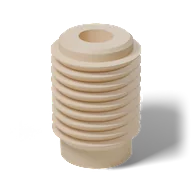
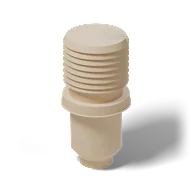
Linco Dübel gerçek modelle yeniden render; birim ağırlık admin paneli
- render_parcalar.py: Linco Dübel prosedürel modelden "mesan linco optimized.fbx"
  içindeki Dübelli_Pim.001'in ahşap gövdesine (slot_tut ile pim ayrıldı) geçti;
  boy 21 mm (modelden ölçüldü). Görseller ve manifest yeniden üretildi.
- panel: köşedeki silik düğmeden açılan ağırlık ayarı (GET/POST /api/agirliklar,
  data/agirliklar.json). Tartı hedefi adet × güncel ağırlıkla sunucuda hesaplanır;
  parca_sayim.py aynı dosyayı okur.

Claude-Session: https://claude.ai/code/session_01DtRJRspo2wVxy9ADhSDqMA

Changed region(s): [[0.25, 0.125, 0.9375, 0.9062], [0.625, 0.125, 0.6562, 0.1562]]

diff --git a/static/arayuz/panel.js b/static/arayuz/panel.js
@@ -1457,6 +1457,48 @@ function ucKapat() {
 }
 
 /* ====================================================================== 10. Olaylar */
+/* ====================================================================== Admin: birim ağırlıklar */
+/* Ağırlık tablosu sunucudadır (data/agirliklar.json). Açılışta okunur ve parcalar.js'deki
+   BIRIM_GRAM'in üstüne yazılır; "Birim X g" etiketi ve (sunucuda hesaplanan) tartı hedefi böylece tutarlı kalır. */
+const ADMIN_PARCALAR = ['Raf Pimi', 'Ağaç Vidası', 'Minifix', 'Linco Dübel', 'Linco Gövde', 'Linco Kapak', 'Arkalık Çivisi'];
+let adminVars = {};
+async function agirlikYukle() {
+  try {
+    const r = await veriCek('/api/agirliklar', { cache: 'no-store', zamanAsimi: POLL_ZAMAN_ASIMI });
+    adminVars = r.varsayilan || {};
+    Object.assign(BIRIM_GRAM, r.agirliklar || {});
+  } catch (e) { /* eski sunucu: panel parcalar.js'deki sabitlerle çalışır */ }
+}
+function adminDoldur(deg) {
+  $('#adminTablo').innerHTML = ADMIN_PARCALAR.map((ad, i) => `<label for="adm${i}">${esc(ad)}</label><span class="adm-gir"><input id="adm${i}" data-ad="${esc(ad)}" inputmode="decimal" value="${esc(String(deg[ad] ?? ''))}"><small>g</small></span>`).join('');
+}
+const adminSayi = (v) => Number(String(v).trim().replace(',', '.'));
+async function adminAc() {
+  const dlg = $('#adminDlg'); if (dlg.open) return;
+  $('#adminDurum').textContent = '';
+  adminDoldur(BIRIM_GRAM);
+  dlg.showModal();
+}
+function adminKapat() { const d = $('#adminDlg'); if (d.open) d.close(); }
+async function adminKaydet(e) {
+  e.preventDefault();
+  const yeni = {}; let hata = false;
+  $$('#adminTablo input').forEach((inp) => {
+    const g = adminSayi(inp.value), ok = Number.isFinite(g) && g > 0 && g < 1000;
+    inp.setAttribute('aria-invalid', String(!ok)); if (!ok) hata = true; else yeni[inp.dataset.ad] = g;
+  });
+  const du = $('#adminDurum');
+  if (hata) { du.textContent = 'Ağırlıklar 0 ile 1000 g arasında sayı olmalı.'; return; }
+  du.textContent = 'Kaydediliyor…';
+  try {
+    const r = await postJson('/api/agirliklar', { agirliklar: yeni });
+    Object.assign(BIRIM_GRAM, r.agirliklar);
+    du.textContent = 'Kaydedildi.';
+    toast('Ağırlıklar kaydedildi');
+    yenile();
+  } catch (err) { du.textContent = `Kaydedilemedi: ${err.message}`; }
+}
+
 function aksiyon(act, t) {
   switch (act) {
     case 'yenile': { const s = $('#yenileBtn svg'); if (s && !azHareket()) s.animate([{ transform: 'rotate(0)' }, { transform: 'rotate(360deg)' }], { duration: 600, easing: EASE }); yenile(); break; }
@@ -1496,6 +1538,9 @@ function aksiyon(act, t) {
     case 'video-kapat': videoKapat(); break;
     case 'buyut': buyukAc(); break;
     case 'buyuk-kapat': buyukKapat(); break;
+    case 'admin-ac': adminAc(); break;
+    case 'admin-kapat': adminKapat(); break;
+    case 'admin-varsayilan': adminDoldur(adminVars); break;
     case 'uc': ucAc(); break;
     case 'uc-kapat': ucKapat(); break;
     case 'uc-kenar': UC.kenar = !UC.kenar; if (UC.k) UC.k.kenar(UC.kenar); t.setAttribute('aria-pressed', String(UC.kenar)); break;
@@ -1591,6 +1636,8 @@ $('#videoDlg').addEventListener('click', (e) => { if (e.target === e.currentTarg
 $('#videoEl').addEventListener('error', () => { clearTimeout(videoZ); videoHata(); });
 $('#videoEl').addEventListener('loadedmetadata', () => { clearTimeout(videoZ); videoDurum(''); const du = $('#videoDuyuru'); if (du) du.textContent = ''; });
 $('#buyukDlg').addEventListener('close', buyukTemizle);
+$('#adminDlg').addEventListener('click', (e) => { if (e.target === e.currentTarget) adminKapat(); });
+$('#adminForm').addEventListener('submit', adminKaydet);
 $('#buyukDlg').addEventListener('click', (e) => { if (e.target === e.currentTarget) buyukKapat(); });
 new ResizeObserver(() => belgelerSigdir()).observe($('.sb-alt'));
 if (document.fonts && document.fonts.ready) document.fonts.ready.then(belgelerSigdir); // yazı tipi gelince genişlikler değişir
@@ -1604,7 +1651,7 @@ window.addEventListener('beforeunload', (e) => {
 document.addEventListener('keydown', (e) => {
   const t = e.target;
   const yaziyor = t && (t.tagName === 'INPUT' || t.tagName === 'TEXTAREA' || t.tagName === 'SELECT' || t.isContentEditable);
-  if ($('#videoDlg').open || $('#buyukDlg').open) return; // modal kendi Esc/odak yönetimini yapar
+  if ($('#videoDlg').open || $('#buyukDlg').open || $('#adminDlg').open) return; // modal kendi Esc/odak yönetimini yapar
   if (e.key === 'Escape') {
     if (S.pop) { popKapat(); return; }
     if (S.ucAcik) { if (!document.fullscreenElement) ucKapat(); return; }
@@ -1679,6 +1726,7 @@ function baslat() {
   const q = P.get('ara'); if (q) { arama.value = q; S.q = q; }
   // manifest ve /api/durum paralel (zincir kısalır); ilk çizim manifest gelince yapılır
   S.manifestSoz = fetch('/static/parcalar/manifest.json').then((r) => (r.ok ? r.json() : {})).catch(() => ({})).then((m) => { S.manifest = m || {}; });
+  agirlikYukle();
   yenile();
   { const sr = $('#gozSirasi'); sr.addEventListener('scroll', seritMaske, { passive: true }); new ResizeObserver(seritMaske).observe(sr); }
   new ResizeObserver(bantOlc).observe($('#uyariKutu')); // bant açılıp kapanınca / satır sayısı değişince

diff --git a/static/arayuz/panel.css b/static/arayuz/panel.css
@@ -1145,3 +1145,22 @@ svg.tamam-ikon { width: 16px; height: 16px; color: var(--tamam); }
   .n-nabiz::after { display: none; }
 }
 @media print { .ust, .ray, .goz-sirasi { display: none; } }
+
+/* ---------- Admin: birim ağırlıklar (köşede silik düğme + modal) ---------- */
+.admin-kose { position: fixed; right: 6px; bottom: 6px; z-index: 5; width: 26px; height: 26px; display: grid; place-items: center; border: 0; border-radius: 50%; background: transparent; color: var(--kalem-3); opacity: .28; cursor: pointer; transition: opacity var(--t-giris) var(--ease); }
+.admin-kose:hover, .admin-kose:focus-visible { opacity: .9; }
+.admin-kose .i { width: 15px; height: 15px; }
+.admin-dlg { border: 0; padding: 0; border-radius: var(--r4); background: var(--kagit); color: var(--kalem); width: min(440px, 94vw); box-shadow: var(--golge); overflow: hidden; }
+.admin-dlg::backdrop { background: var(--perde); }
+.admin-dlg[open] { animation: dlg-gir var(--t-giris) var(--ease); }
+.admin-govde { padding: 0 var(--s5) var(--s5); display: grid; gap: var(--s3); }
+.admin-not { font-size: var(--f-s); color: var(--kalem-3); line-height: 1.45; }
+.admin-tablo { display: grid; grid-template-columns: 1fr auto; gap: var(--s2) var(--s3); align-items: center; }
+.admin-tablo label { font-size: var(--f-m, 1rem); }
+.admin-tablo .adm-gir { display: flex; align-items: center; gap: 6px; }
+.admin-tablo input { width: 96px; padding: 7px 9px; border: 1px solid var(--kalem-3); border-radius: 8px; background: transparent; color: inherit; font: inherit; text-align: right; font-variant-numeric: tabular-nums; }
+.admin-tablo input:focus-visible { outline: 2px solid var(--kalem); outline-offset: 1px; }
+.admin-tablo input[aria-invalid="true"] { border-color: #c0392b; }
+.admin-tablo small { color: var(--kalem-3); }
+.admin-alt { display: flex; align-items: center; gap: var(--s3); justify-content: flex-end; margin-top: var(--s2); }
+.admin-durum { margin-right: auto; font-size: var(--f-s); color: var(--kalem-3); }

diff --git a/panel.html b/panel.html
@@ -237,6 +237,20 @@
   <p class="buyuk-alt" id="buyukAlt"></p>
 </dialog>
 
+<button class="admin-kose" id="adminBtn" data-act="admin-ac" aria-haspopup="dialog" aria-label="Ağırlık ayarları (yönetici)" title="Ağırlık ayarları"><svg class="i" aria-hidden="true"><use href="#i-tarti"/></svg></button>
+<dialog class="admin-dlg" id="adminDlg" aria-labelledby="adminBaslik">
+  <div class="video-ust"><h2 id="adminBaslik">Birim ağırlıklar</h2><button class="ikon-btn" data-act="admin-kapat" aria-label="Kapat"><svg class="i"><use href="#i-kapat"/></svg></button></div>
+  <form class="admin-govde" id="adminForm" autocomplete="off">
+    <p class="admin-not">Tartı hedefleri adet × buradaki birim ağırlıkla hesaplanır (gram). Kayıttan sonra panelde hemen güncellenir; PDF'ler siparişler yeniden işlenince değişir.</p>
+    <div class="admin-tablo" id="adminTablo"></div>
+    <div class="admin-alt">
+      <span class="admin-durum" id="adminDurum" role="status" aria-live="polite"></span>
+      <button type="button" class="btn-ikinci-kucuk" data-act="admin-varsayilan"><svg class="i" aria-hidden="true"><use href="#i-sifirla"/></svg><span>Varsayılanlar</span></button>
+      <button type="submit" class="btn-ana btn-orta"><span class="btn-dolgu"></span>Kaydet</button>
+    </div>
+  </form>
+</dialog>
+
 <div class="toast" id="toast" role="status" aria-live="polite"></div>
 <script type="module" src="/static/arayuz/panel.js"></script>
 </body>

diff --git a/panel.py b/panel.py
@@ -59,6 +59,7 @@ MANIFEST = os.path.join(BASE, "islem_gecmisi.json")
 DATA_DIR = os.path.join(BASE, "data")
 CHECKLIST_DOSYA = os.path.join(DATA_DIR, "panel_checklist.json")
 NOTLAR_DOSYA = os.path.join(DATA_DIR, "panel_notlar.json")
+AGIRLIK_DOSYA = os.path.join(DATA_DIR, "agirliklar.json")
 SAYFA_DOSYA = os.path.join(BASE, "panel.html")
 STATIC_DIR = os.path.join(BASE, "static")  # arayüz varlıkları: parça renderları, logo, fontlar, three.js
 # Beyaz liste: bilinmeyen uzantı 404. mimetypes'a güvenilmez (.js bazı sistemlerde
@@ -546,6 +547,79 @@ def sistem_durumu():
         return veri
 
 
+# ------------------------------------------------------- BİRİM AĞIRLIKLAR ---
+# Tartılarak sayılan parçaların birim ağırlıkları (g). Varsayılanlar Ağırlıklar.md ile aynı;
+# admin ekranında değiştirilenler data/agirliklar.json'a yazılır (yalnız varsayılandan
+# ayrılanlar değil, tüm tablo). parca_sayim.py aynı dosyayı okur (yeni işlenen siparişler);
+# mevcut JSON'lardaki "gram" ise burada adet × birim ağırlıkla yeniden hesaplanır, böylece
+# değişiklik sipariş yeniden işlenmeden panelde görünür.
+AGIRLIK_VARSAYILAN = {
+    "Raf Pimi": 2.7, "Ağaç Vidası": 1.108, "Minifix": 3.401, "Linco Dübel": 4.4,
+    "Linco Gövde": 4.631, "Linco Kapak": 0.216, "Arkalık Çivisi": 0.335,
+}
+# adet anahtarı -> JSON "gram" anahtarı (pdf_uret.GRAM_KEY ile aynı)
+AGIRLIK_GRAM_ANAHTARI = {
+    "Raf Pimi": "Raf Pimi", "Ağaç Vidası": "Ağaç Vidası", "Minifix": "Minifix",
+    "Linco Dübel": "Linco Dübel", "Linco Gövde": "Linco", "Linco Kapak": "Linco Kapak",
+    "Arkalık Çivisi": "Çivi",
+}
+_agirlik_kilit = threading.Lock()
+
+
+def agirliklar_oku():
+    """Geçerli ağırlıklar: varsayılan + dosyadaki geçerli değerler."""
+    sonuc = dict(AGIRLIK_VARSAYILAN)
+    try:
+        with open(AGIRLIK_DOSYA, encoding="utf-8") as f:
+            ham = json.load(f)
+        for ad, g in (ham.items() if isinstance(ham, dict) else ()):
+            if ad in sonuc and isinstance(g, (int, float)) and not isinstance(g, bool) and 0 < g < 1000:
+                sonuc[ad] = float(g)
+    except (OSError, ValueError):
+        pass
+    return sonuc
+
+
+def agirliklar_yaz(yeni):
+    """yeni: {ad: gram}. Doğrulanmış tüm tabloyu atomik yazar; geçerli tabloyu döndürür."""
+    with _agirlik_kilit:
+        mevcut = agirliklar_oku()
+        for ad, g in yeni.items():
+            if ad not in AGIRLIK_VARSAYILAN:
+                raise ValueError(f"bilinmeyen parça: {ad}")
+            if isinstance(g, bool) or not isinstance(g, (int, float)) or not 0 < g < 1000:
+                raise ValueError(f"{ad}: ağırlık 0 ile 1000 g arasında bir sayı olmalı")
+            mevcut[ad] = round(float(g), 3)
+        f = tempfile.NamedTemporaryFile("w", dir=DATA_DIR, delete=False,
+                                        prefix=".agirliklar.tmp", encoding="utf-8")
+        try:
+            json.dump(mevcut, f, ensure_ascii=False, indent=1)
+            f.flush()
+            os.fsync(f.fileno())
+            f.close()
+            os.replace(f.name, AGIRLIK_DOSYA)
+        except BaseException:
+            f.close()
+            try:
+                os.unlink(f.name)
+            except OSError:
+                pass
+            raise
+        return mevcut
+
+
+def gram_hesapla(veri):
+    """Siparişin gram sözlüğü: dosyadaki gram anahtarları korunur, değerler adet × güncel ağırlık."""
+    gram = dict(veri.get("gram") or {})
+    adet = veri.get("adet") or {}
+    w = agirliklar_oku()
+    for ad, gk in AGIRLIK_GRAM_ANAHTARI.items():
+        n = adet.get(ad)
+        if gk in gram and isinstance(n, (int, float)):
+            gram[gk] = round(n * w[ad], 1)
+    return gram
+
+
 # ------------------------------------------------------------ API GÖVDESİ ---
 def durum_yaniti():
     """GET /api/durum gövdesi: sistem + sayaçlar + tüm siparişlerin TAM detayı (kart
@@ -568,7 +642,7 @@ def durum_yaniti():
             satirlar.append({
                 "no": no, "durum": k["durum"], "parca": k["parca"],
                 "pdf": k["pdf"], "ozet_no": k["ozet_no"], "zaman": k["zaman"],
-                "adet": veri.get("adet") or {}, "gram": veri.get("gram") or {},
+                "adet": veri.get("adet") or {}, "gram": gram_hesapla(veri),
                 "ray_setleri": veri.get("ray_setleri") or {},
                 "askilik_boylari": askilik_boylari(veri),
                 "checklist": checklist, "tamam": tamam, "toplam": toplam,
@@ -600,7 +674,7 @@ def siparis_yaniti(no, ham_goster=False):
         checklist, tamam, toplam = checklist_ozeti(no, veri)
     yanit = {
         "no": no, "durum": k["durum"], "parca_sayisi": veri.get("parca_sayisi"),
-        "adet": veri.get("adet") or {}, "gram": veri.get("gram") or {},
+        "adet": veri.get("adet") or {}, "gram": gram_hesapla(veri),
         "ray_setleri": veri.get("ray_setleri") or {},
         "askilik_boylari": askilik_boylari(veri),
         "fbx": k["fbx"], "video": k["video"], "pdf": k["pdf"], "ozet_no": k["ozet_no"],
@@ -928,6 +1002,9 @@ class PanelIstek(BaseHTTPRequestHandler):
                     return self._gonder(204, b"", "image/x-icon")
                 if yol == "/api/durum":
                     return self._json(200, durum_yaniti())
+                if yol == "/api/agirliklar":
+                    return self._json(200, {"agirliklar": agirliklar_oku(),
+                                            "varsayilan": AGIRLIK_VARSAYILAN})
                 if yol.startswith("/api/siparis/"):
                     no = yol[len("/api/siparis/"):]
                     if not ORDER_RX.fullmatch(no):
@@ -976,7 +1053,7 @@ class PanelIstek(BaseHTTPRequestHandler):
                 return self._json(404, {"hata": "bulunamadı"})
 
             if self.command == "POST":
-                if yol not in ("/api/checklist", "/api/not"):
+                if yol not in ("/api/checklist", "/api/not", "/api/agirliklar"):
                     return self._json(404, {"hata": "bulunamadı"})
                 try:
                     uzunluk = int(self.headers.get("Content-Length") or 0)
@@ -988,6 +1065,16 @@ class PanelIstek(BaseHTTPRequestHandler):
                     govde = json.loads(self.rfile.read(uzunluk))
                 except Exception:
                     return self._json(400, {"hata": "JSON çözümlenemedi"})
+                if yol == "/api/agirliklar":
+                    yeni = govde.get("agirliklar") if isinstance(govde, dict) else None
+                    if not isinstance(yeni, dict) or not yeni:
+                        return self._json(400, {"hata": "agirliklar sözlüğü gerekli"})
+                    try:
+                        tablo = agirliklar_yaz(yeni)
+                    except ValueError as e:
+                        return self._json(400, {"hata": str(e)})
+                    return self._json(200, {"ok": True, "agirliklar": tablo,
+                                            "varsayilan": AGIRLIK_VARSAYILAN})
                 no = str(govde.get("siparis") or "")
                 if not ORDER_RX.fullmatch(no):
                     return self._json(400, {"hata": "geçersiz sipariş no"})

diff --git a/tools/render_parcalar.py b/tools/render_parcalar.py
@@ -62,6 +62,8 @@ MODULBAG = BELGELER + "/adaptx-2/modulbag/"
 #                 deger = golge uzunluguna uygulanan carpan (1.0 = tam). Golge kare disina tasmasin diye
 #   tur_doluluk : (istege bagli) tur karelerinde nesnenin kareyi doldurma orani (varsayilan DOLULUK)
 #   rim         : (istege bagli) kenar isigi carpani
+#   slot_tut    : (istege bagli) {nesne_adi: [slot indeksleri]} yalniz bu malzeme slotlarinin
+#                 poligonlari kalir (birlesik nesneden tek parca ayirmak icin)
 # --------------------------------------------------------------------------
 PARCALAR = {
     "Frenli Menteşe": dict(slug="frenli-mentese", prosedurel=False, boy_mm=100, boy_tahmin=True,
@@ -81,7 +83,11 @@ PARCALAR = {
         tur_poz=(155, 0, 0), tur_el=50,
         boy_mm=18, boy_tahmin=True,
         kaynak=[(KULLANILAN + "mesan linco optimized.fbx", {"Minifix_Kapak": "beyaz_plastik"})]),
-    "Linco Dübel": dict(slug="linco-dubel", prosedurel=True, tur_poz=(70, 0, 0), tur_el=30),
+    # Gercek model: "Dübelli_Pim.001"in slot 0'i (ribali ahsap govde); slot 1 metal pim atilir.
+    # Model ekseni X; poz ile dik durur. Olcu modelden: O10.5 x 20.7 mm.
+    "Linco Dübel": dict(slug="linco-dubel", prosedurel=False, boy_mm=21, boy_tahmin=False,
+        poz=(0, -90, 0), tur_poz=(0, -70, 0), tur_el=30, slot_tut={"Dübelli_Pim.001": [0]},
+        kaynak=[(KULLANILAN + "mesan linco optimized.fbx", {"Dübelli_Pim.001": ["ahsap"]})]),
     "Minifix": dict(slug="minifix", prosedurel=False, boy_mm=17, boy_tahmin=True,
         kaynak=[(KULLANILAN + "mesan linco optimized.fbx", {"Minifix.001": "zamak"})]),
     "Uzun Linco Pimi": dict(slug="uzun-linco-pimi", prosedurel=False, el=30, yaw=-55, boy_mm=60, boy_tahmin=True,
@@ -595,6 +601,17 @@ if BLENDER_ICINDE:
         nesneler = []
         for o, malz in tutulan:
             slotlar = malz if isinstance(malz, list) else [malz]
+            tut = {unicodedata.normalize("NFC", k): v for k, v in tanim.get("slot_tut", {}).items()}
+            tut = tut.get(unicodedata.normalize("NFC", o.name))
+            if tut is not None:
+                import bmesh
+                bm = bmesh.new()
+                bm.from_mesh(o.data)
+                bmesh.ops.delete(bm, geom=[f for f in bm.faces if f.material_index not in tut], context="FACES")
+                for f in bm.faces:
+                    f.material_index = 0
+                bm.to_mesh(o.data)
+                bm.free()
             o.data.materials.clear()
             for s in slotlar:
                 o.data.materials.append(malzeme_yap(s))

diff --git a/parca_sayim.py b/parca_sayim.py
@@ -325,6 +325,21 @@ WEIGHTS = {
     "civi": 0.335,
 }
 
+# Panelin admin ekranından (data/agirliklar.json) değiştirilen birim ağırlıklar yukarıdaki
+# varsayılanların üstüne yazılır. Anahtarlar panel.py AGIRLIK_VARSAYILAN adlarıdır.
+_AGIRLIK_ESLEME = {
+    "Raf Pimi": "rafpimi", "Ağaç Vidası": "agacvidasi", "Minifix": "minifix",
+    "Linco Dübel": "lincodubel", "Linco Gövde": "linco", "Linco Kapak": "lincokapak",
+    "Arkalık Çivisi": "civi",
+}
+try:
+    with open(os.path.join(_base_dir(), "data", "agirliklar.json"), encoding="utf-8") as _f:
+        for _ad, _g in json.load(_f).items():
+            if _ad in _AGIRLIK_ESLEME and isinstance(_g, (int, float)) and 0 < _g < 1000:
+                WEIGHTS[_AGIRLIK_ESLEME[_ad]] = float(_g)
+except (OSError, ValueError, AttributeError):
+    pass   # dosya yok/bozuk → varsayılan ağırlıklar
+
 
 # ── delikbulma.py'den kopyalanan yardımcılar ─────────────────────────────────
 def get_perfect_local_bounds(obj):
